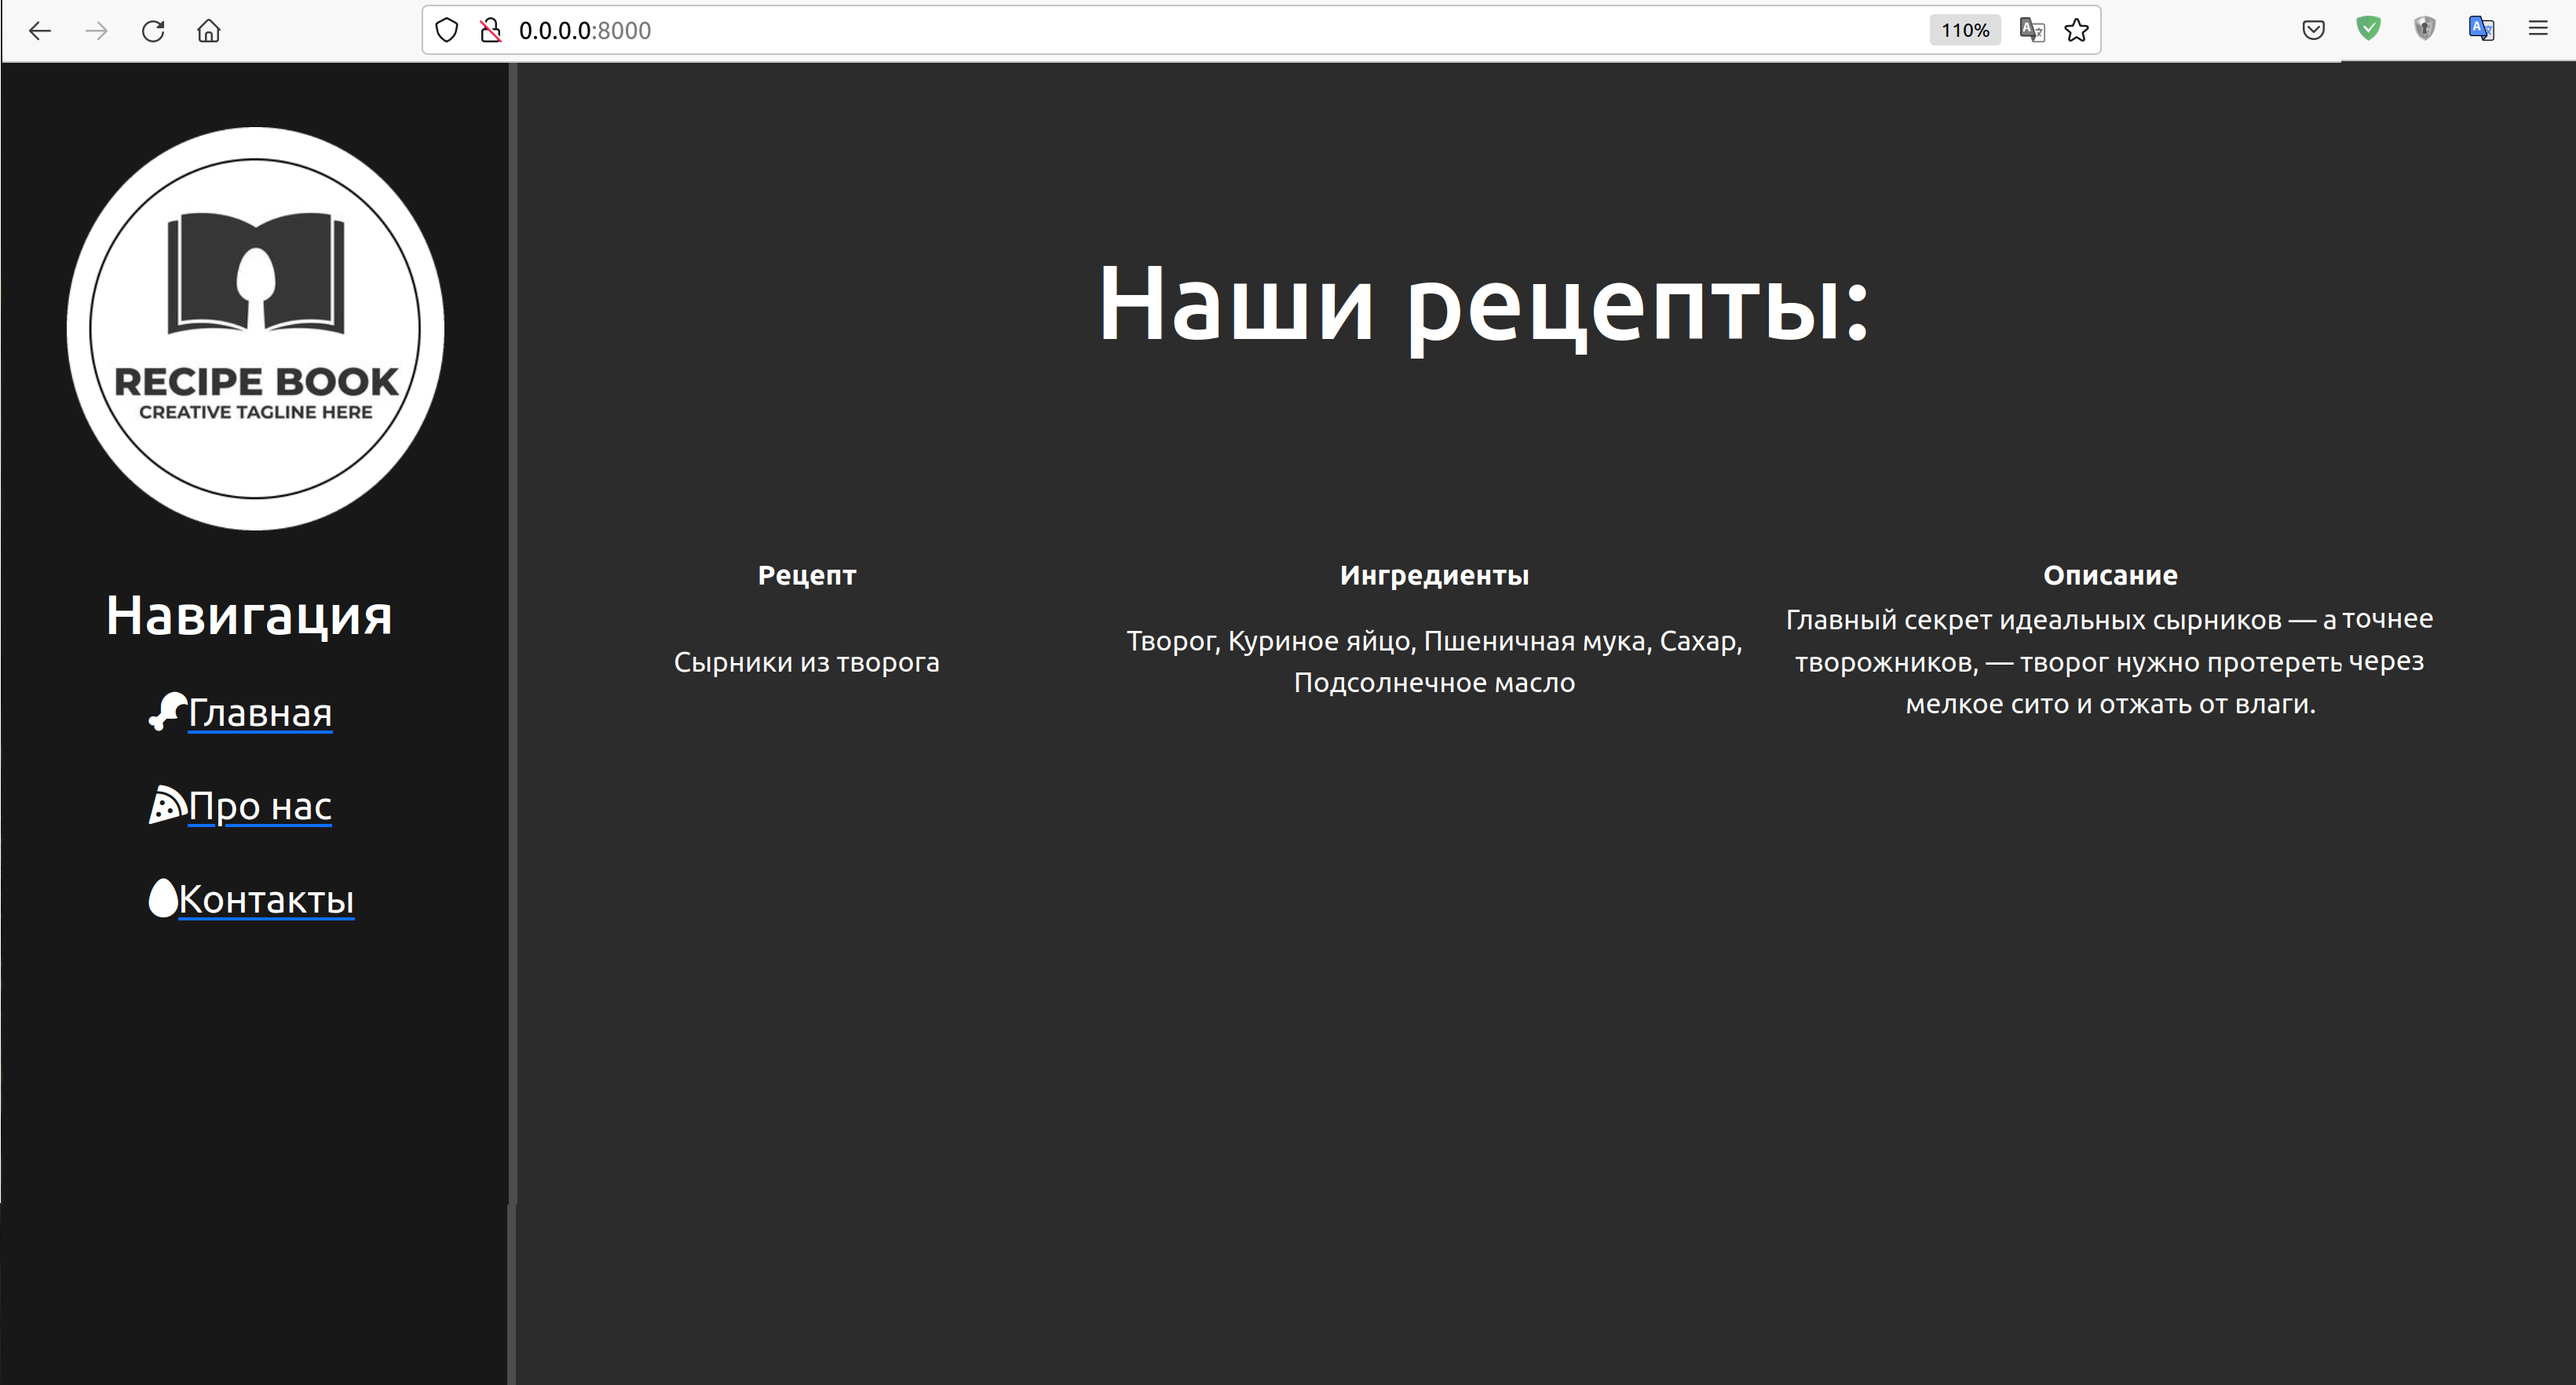
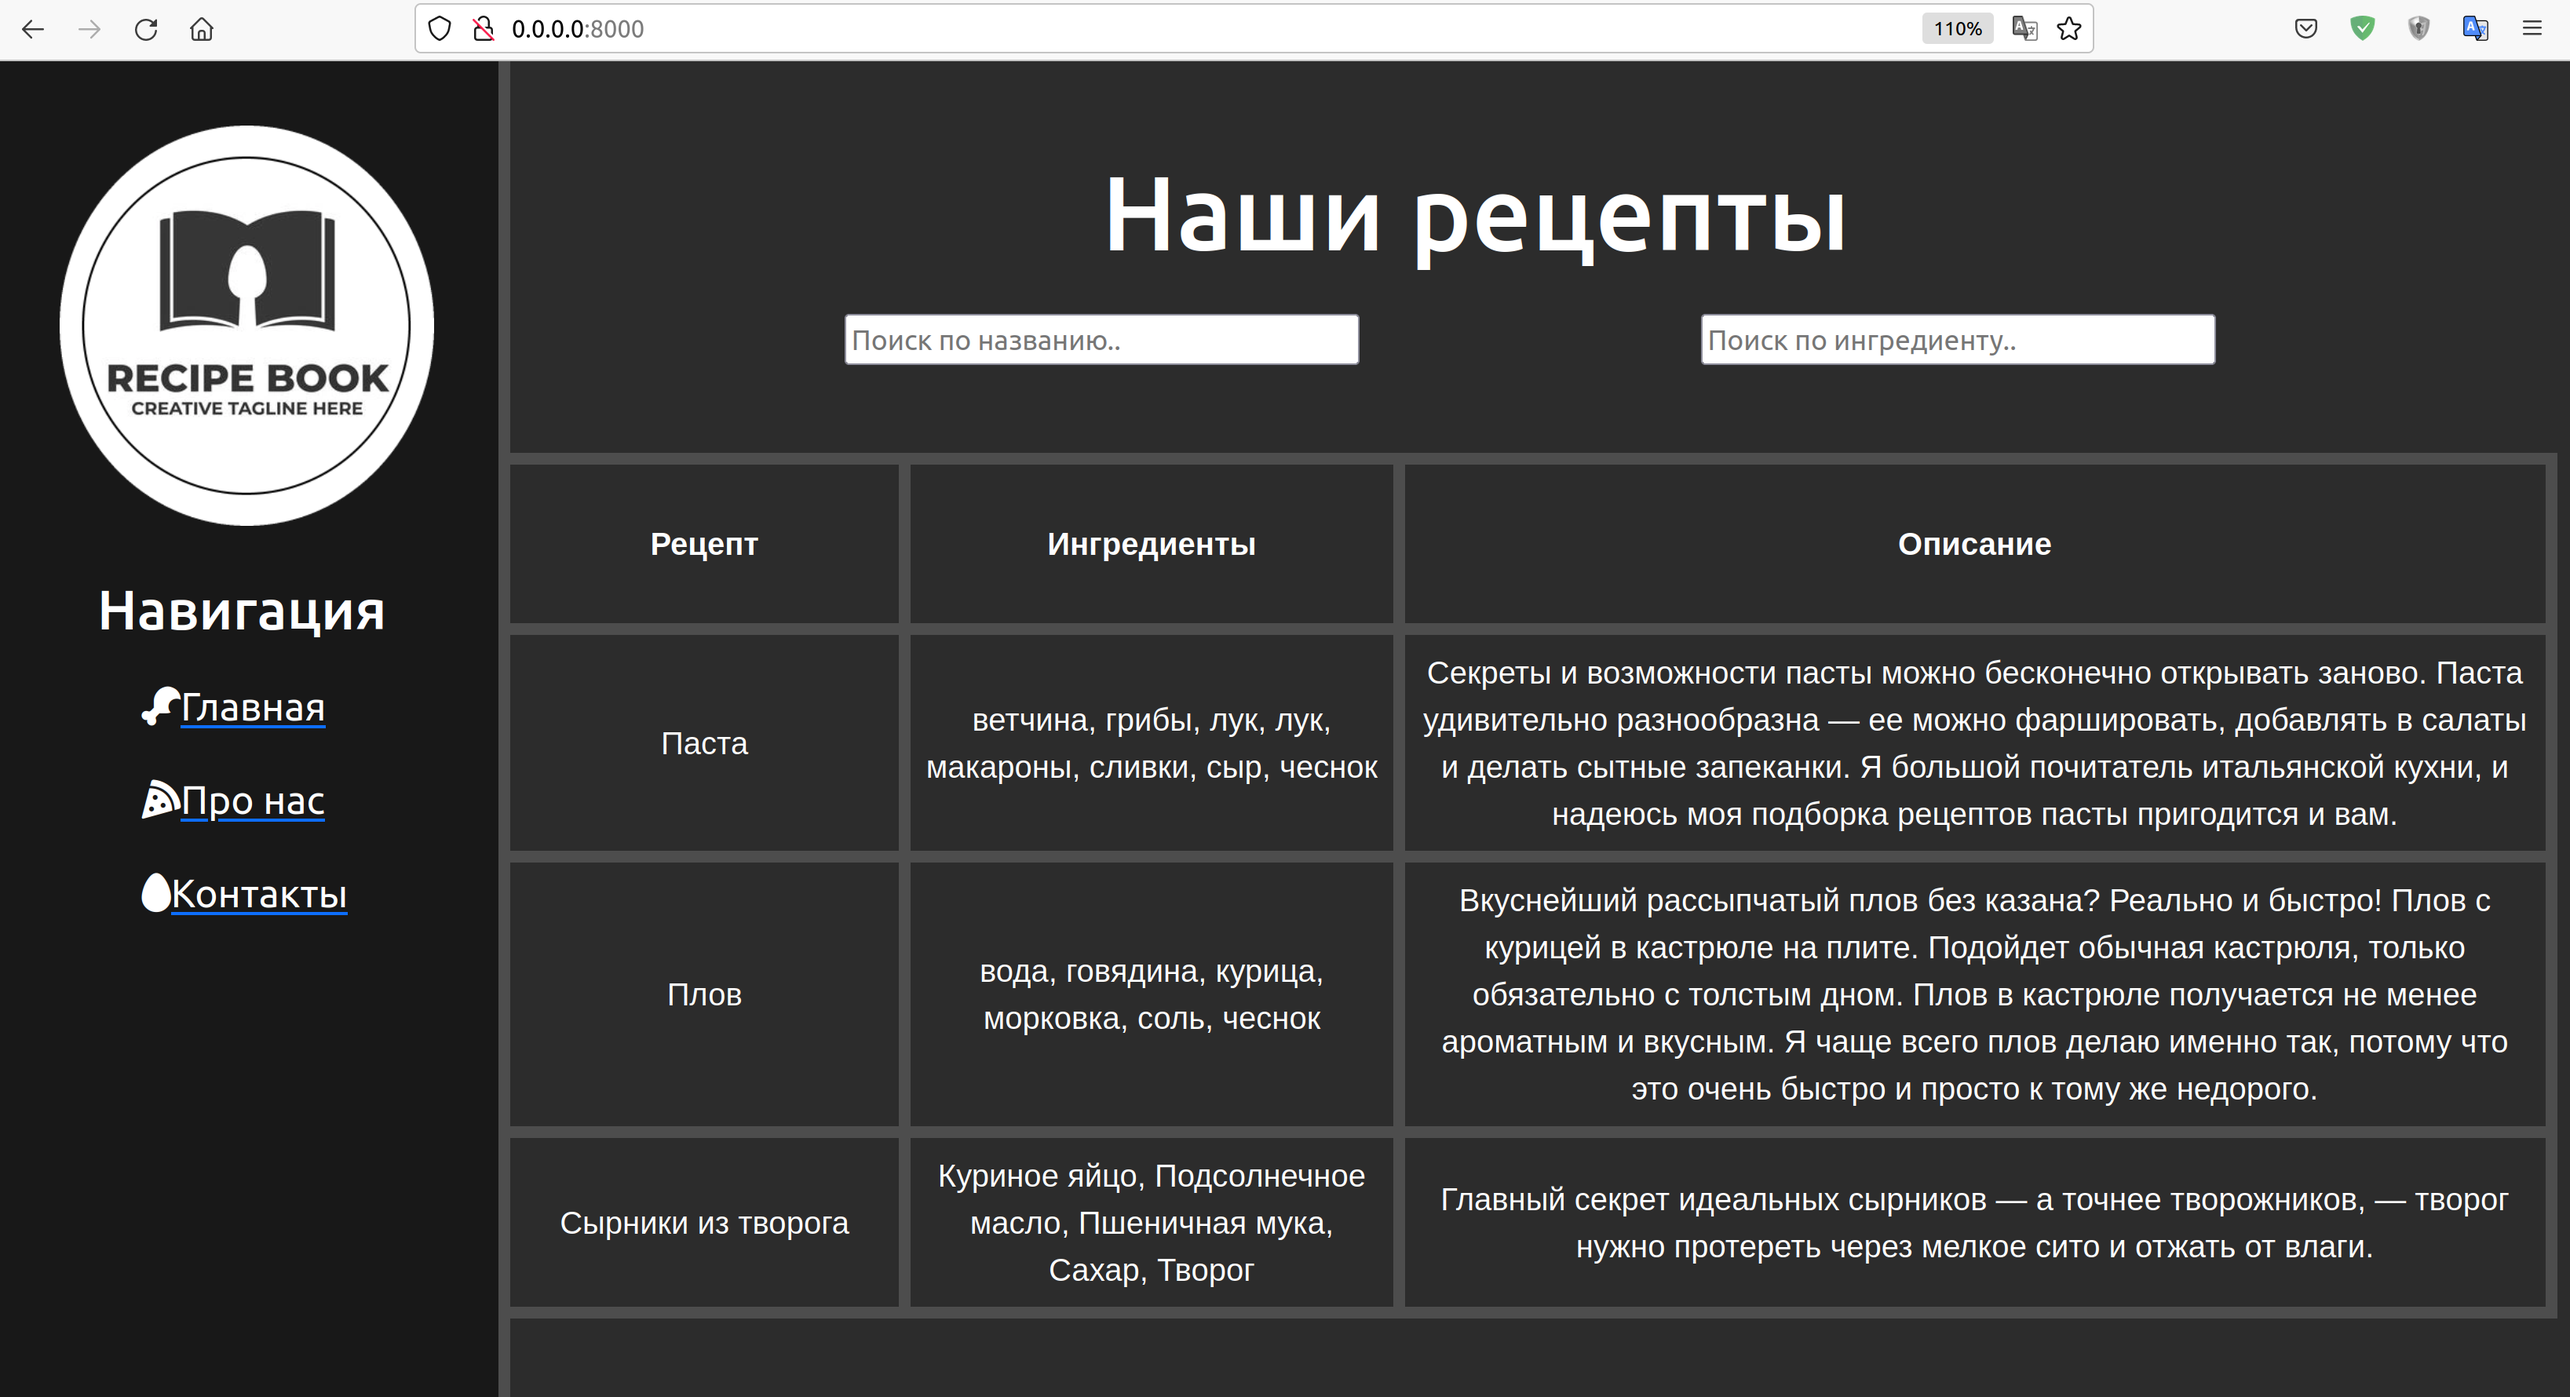
Front v3.0

diff --git a/app/bases/templates/home.html b/app/bases/templates/home.html
@@ -5,8 +5,12 @@
     <div class="features">
         <h1>Наши рецепты</h1>
     </div>
-    <input class="myInput" type="text" id="myInput1" onkeyup="name_filter()" placeholder="Поиск по названию.." title="Введите название">
-    <input class="myInput" type="text" id="myInput2" onkeyup="ingredient_filter()" placeholder="Поиск по ингредиенту.." title="Введите ингредиент">
+        <div id="input">
+            <input class="myInput" type="text" id="myInput1" onkeyup="name_filter()"
+                   placeholder="Поиск по названию.." title="Введите название">
+            <input class="myInput" type="text" id="myInput2" onkeyup="ingredient_filter()"
+               placeholder="Поиск по ингредиенту.." title="Введите ингредиент">
+        </div>
     <div class="features">
         <table id="myTable">
           <tr class="header">

diff --git a/app/bases/static/main/css/main.css b/app/bases/static/main/css/main.css
@@ -77,14 +77,23 @@ home .h1{
   box-sizing: border-box;
 }
 
-/*.myInput {*/
-/*  background-position: 10px 10px;*/
-/*  background-repeat: no-repeat;*/
-/*  width: 100%;*/
-/*  font-size: 16px;*/
-/*  padding: 12px 20px 12px 40px;*/
-/*  border: 1px solid #ddd;*/
-/*  margin-bottom: 12px;*/
+.myInput {
+  /*position: relative;*/
+  background-position: 10px 10px;
+  /*background-repeat: no-repeat;*/
+  width: 20%;
+  /*font-size: 16px;*/
+  /*padding: 12px 20px 12px 40px;*/
+  /*border: 1px solid #ddd;*/
+    margin-top: 1%;
+  margin-left: 13%;
+  /*box-sizing: border-box;*/
+  /*text-align:center;*/
+}
+
+
+/*#input{*/
+/*    position: relative;*/
 /*}*/
 
 #myTable {

diff --git a/app/bases/migrations/0004_alter_ingredient_options_alter_recipes_options.py b/app/bases/migrations/0004_alter_ingredient_options_alter_recipes_options.py
@@ -1,0 +1,21 @@
+# Generated by Django 4.0.2 on 2022-02-20 16:09
+
+from django.db import migrations
+
+
+class Migration(migrations.Migration):
+
+    dependencies = [
+        ('bases', '0003_alter_recipes_options'),
+    ]
+
+    operations = [
+        migrations.AlterModelOptions(
+            name='ingredient',
+            options={'ordering': ['name'], 'verbose_name': 'Ингредиент', 'verbose_name_plural': 'Ингредиенты'},
+        ),
+        migrations.AlterModelOptions(
+            name='recipes',
+            options={'ordering': ['name'], 'verbose_name': 'Рецепт', 'verbose_name_plural': 'Рецепты'},
+        ),
+    ]
